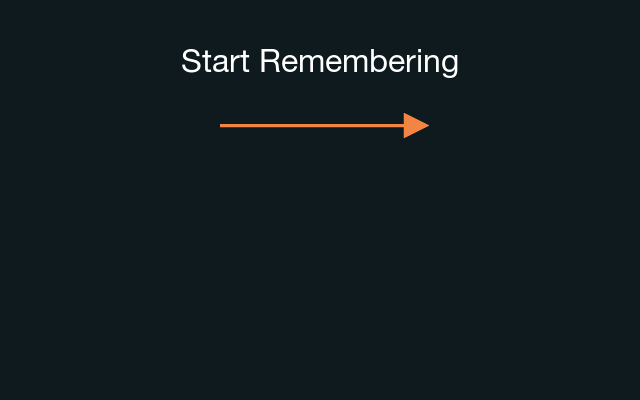
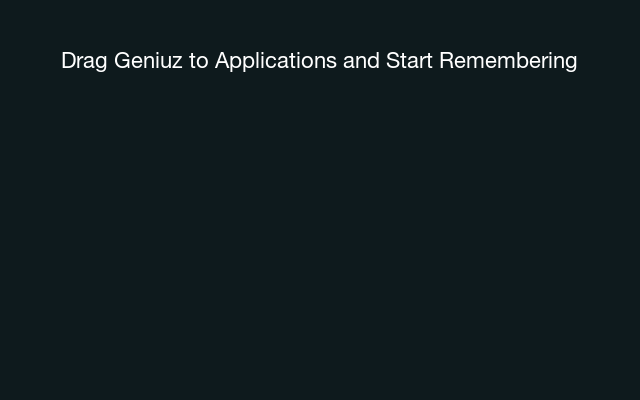
v1.1.3: new DMG text, drop arrow, fix CLI detection
DMG background: 'Drag Geniuz to Applications and Start Remembering'
— one line, no arrow. Arrow rendering was inconsistent across
Finder window sizes and overlapped icons.

CLI detection: check /usr/local/bin/geniuz and /opt/homebrew/bin/
directly via FileManager. The 'which geniuz' subprocess approach
didn't work because sandboxed apps don't inherit the user's login
PATH — even after symlinking to /usr/local/bin/geniuz, the app
still reported 'not on PATH' and kept showing the install affordance.

Changed region(s): [[0.0938, 0.12, 0.9062, 0.21], [0.3438, 0.27, 0.6875, 0.36]]

diff --git a/desktop/Geniuz/GeniuzService.swift b/desktop/Geniuz/GeniuzService.swift
@@ -94,22 +94,13 @@ class GeniuzService: ObservableObject {
     /// the user's login-shell PATH doesn't include. That hid the affordance from
     /// users who still needed it — false positive.
     func checkCliOnPath() -> Bool {
-        let task = Process()
-        task.launchPath = "/usr/bin/which"
-        task.arguments = ["geniuz"]
-        // Use login-shell PATH by invoking via shell; ensures we match what the
-        // user's Terminal actually sees, not the app's sandboxed environment.
-        let pipe = Pipe()
-        task.standardOutput = pipe
-        task.standardError = Pipe()
-        do {
-            try task.run()
-            task.waitUntilExit()
-            return task.terminationStatus == 0
-        } catch {
-            NSLog("[geniuz-app] which geniuz failed to launch: %@", error.localizedDescription)
-            return false
-        }
+        // The Copy Install Command only ever symlinks to one of these two
+        // locations, so these are the only paths worth checking for "did the
+        // install work." A `which geniuz` spawn would match shell semantics
+        // more broadly but won't inherit the user's login PATH under sandbox.
+        let fm = FileManager.default
+        return fm.isExecutableFile(atPath: "/usr/local/bin/geniuz")
+            || fm.isExecutableFile(atPath: "/opt/homebrew/bin/geniuz")
     }
 
     /// Copies a ready-to-paste sudo command to the clipboard that symlinks the
